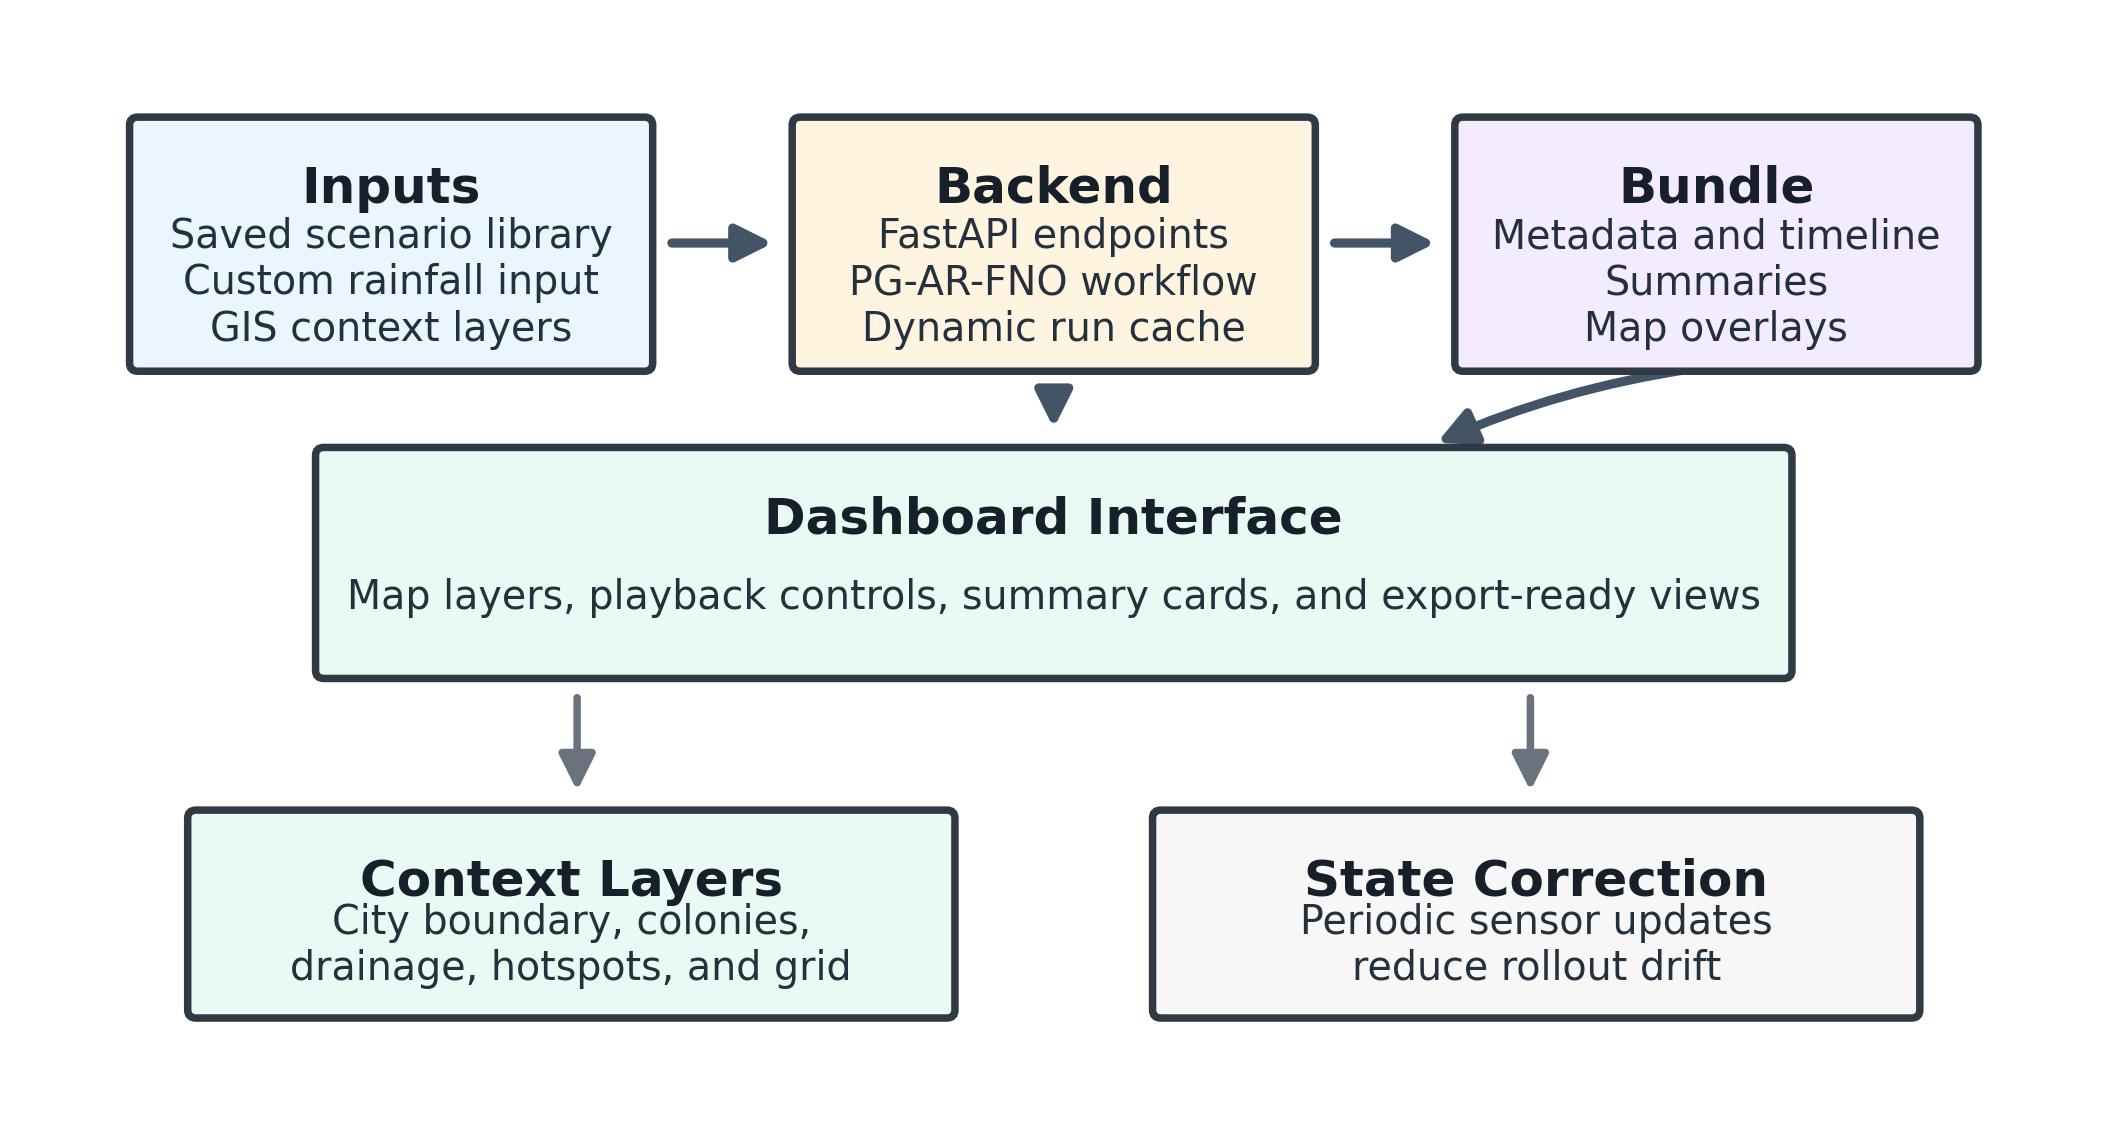
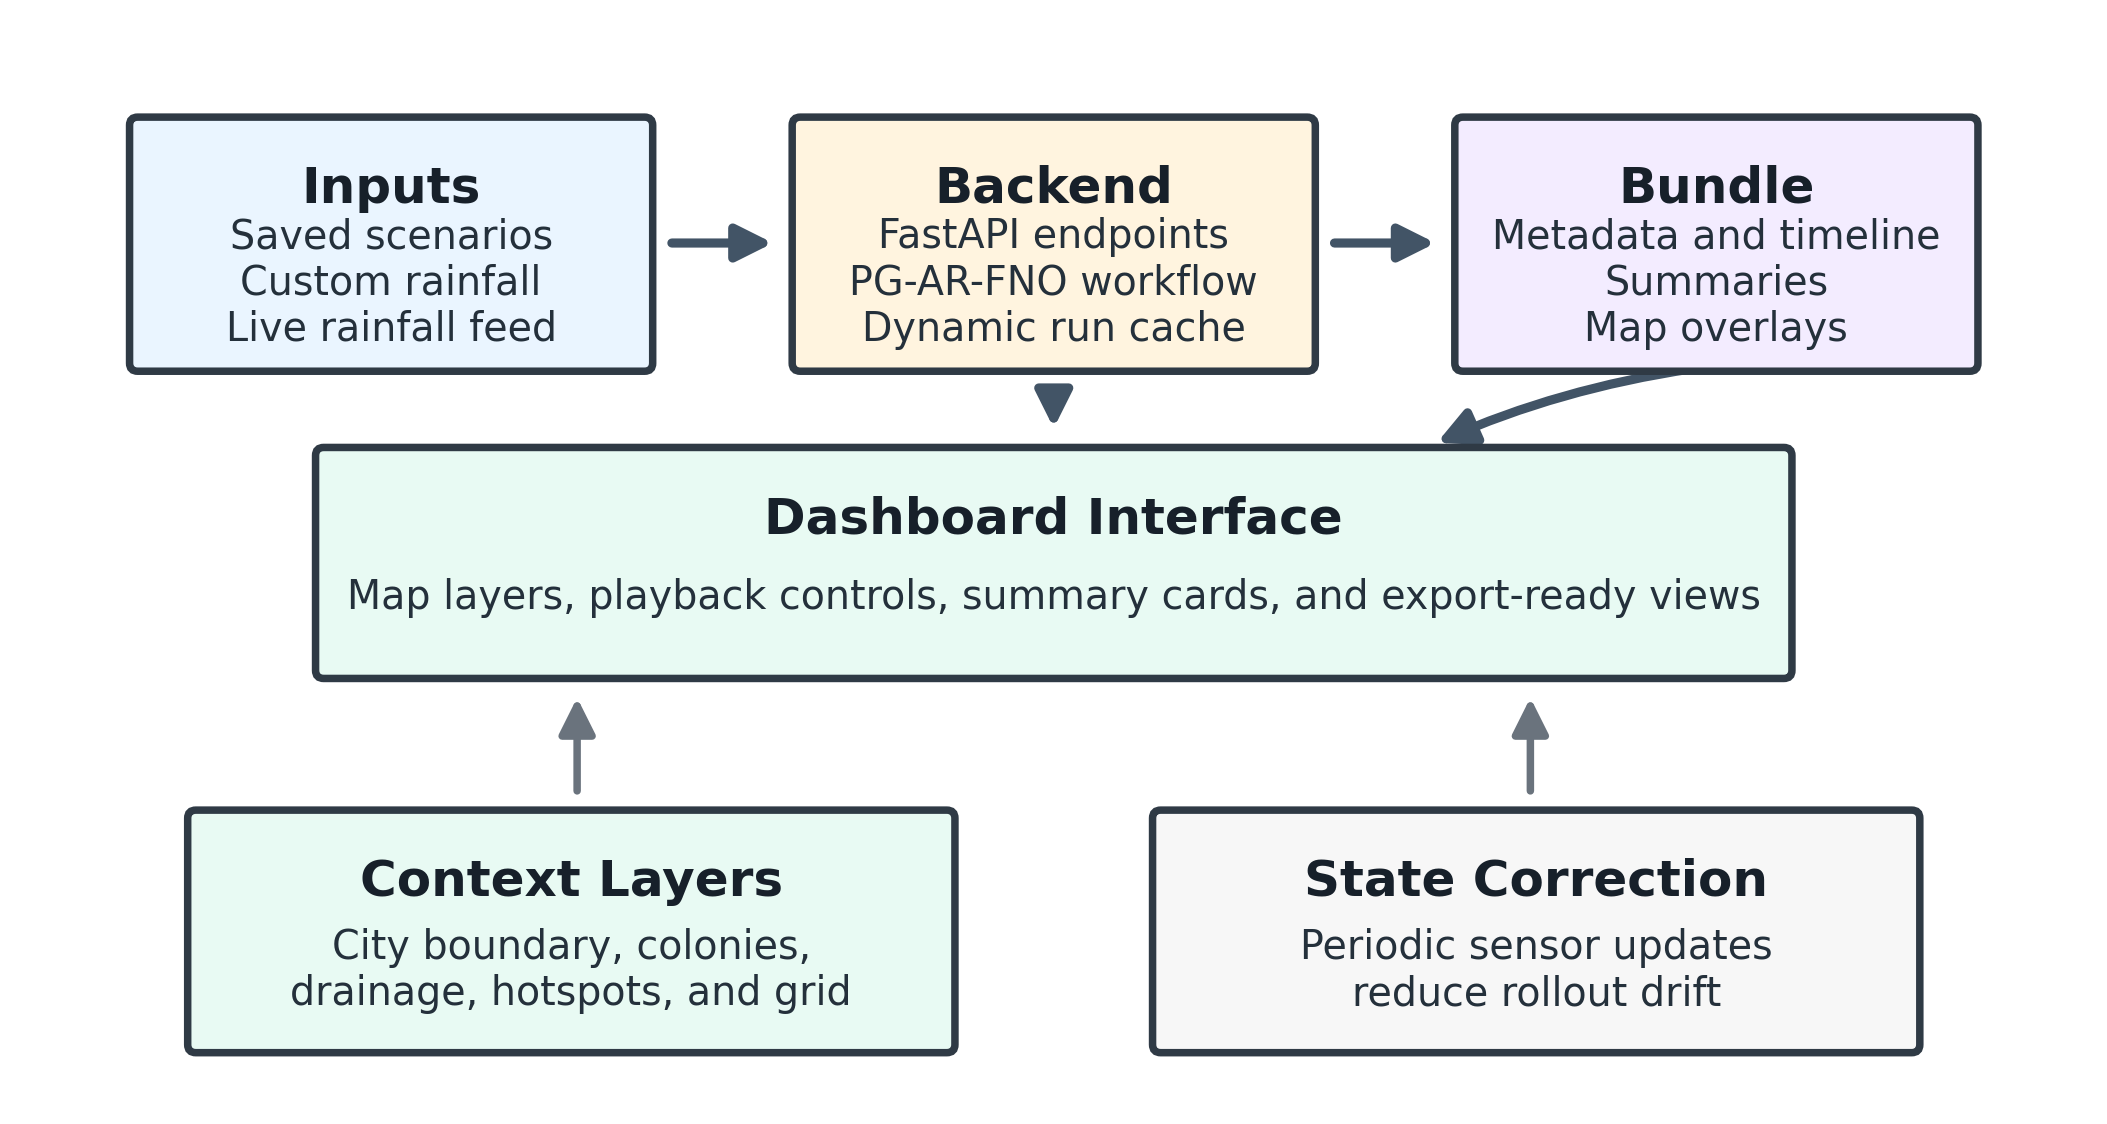
07 refresh readme

diff --git a/README.md b/README.md
@@ -1,30 +1,47 @@
 # Gurugram Flood Prediction Dashboard
 
-This repository contains the dashboard application layer used in the thesis work on PG-AR-FNO for urban flood prediction in Gurugram.
+This repository contains the application layer used to present PG-AR-FNO flood predictions for Gurugram through an interactive dashboard. It was prepared as the software artifact associated with the thesis work on urban flood prediction.
 
-The app provides three working modes:
+## Overview
 
-- `Static`: browse precomputed flood scenarios stored as dashboard assets
-- `Dynamic`: generate a run from user-supplied rainfall values
-- `Live`: fetch rainfall from a weather service and generate a run through the same pipeline
+The dashboard is built around three operating modes:
 
-## What this repository contains
+- `Static`: review saved flood scenarios through precomputed assets
+- `Dynamic`: submit a rainfall sequence and generate a run through the same display pipeline
+- `Live`: fetch rainfall from a weather service and create a live-style prediction run
 
-- FastAPI server and API routes
-- dashboard frontend with map playback, layers, summaries, and mode switching
-- static scenario assets used for demonstration
-- GIS context layers for city boundary, colonies, drainage, and hotspots
-- screenshots used for documentation and thesis integration
+The interface combines:
 
-## Important scope note
+- map-based flood visualization
+- scenario and mode selection
+- playback across time
+- switchable layers such as water depth, flood extent, hazard bands, and risk cells
+- contextual layers such as city boundary, colonies, drainage, and hotspots
+- summary indicators for the active frame
 
-This repository is the `/app` portion of the larger thesis workspace. It is meant to be published as the software artifact behind the thesis chapter and GitHub link.
+## Screens
 
-It is **not** packaged here as a fully standalone training or deployment repository. Some runtime paths in the code still expect the broader project layout for model checkpoints and processed tensors.
+### Home screen
 
-## Running the app in the thesis workspace
+![Dashboard home screen](screenshots/software_home_screen.png)
 
-Run it from the parent thesis workspace:
+### Software architecture
+
+![Software architecture workflow](screenshots/software_architecture_workflow.png)
+
+## Repository contents
+
+- `api/`: request and response schemas
+- `assets/`: static scenario assets and GIS context layers
+- `core/`: prediction, bundling, hazard, and alert logic
+- `data/`: city profile metadata
+- `services/`: weather service integration
+- `static/`: frontend HTML, CSS, and JavaScript
+- `server.py`: FastAPI entrypoint
+
+## Running the dashboard
+
+Run the app from the parent thesis workspace:
 
 ```bash
 conda activate shivam
@@ -37,11 +54,10 @@ Then open:
 http://127.0.0.1:8009
 ```
 
-## Runtime dependencies
+## Dependencies
 
-The dashboard code depends on:
+The included `requirements.txt` lists the Python packages used by the app. The main runtime dependencies are:
 
-- Python 3.10+
 - `fastapi`
 - `uvicorn`
 - `numpy`
@@ -49,41 +65,16 @@ The dashboard code depends on:
 - `pydantic`
 - `torch`
 
-An example dependency file is included as `requirements.txt`.
+## Live rainfall setup
 
-## Optional live rainfall setup
-
-For live rainfall mode, set:
+To enable live rainfall retrieval, set:
 
 ```bash
 export OPENWEATHERMAP_API_KEY=your_key_here
 ```
 
-If the key is not available, the app falls back to a labelled demonstration rainfall sequence for the live mode UI.
+If the key is unavailable or the weather request fails, the app falls back to a clearly labelled demonstration rainfall sequence so that the interface remains usable.
 
-## Repository structure
+## Scope note
 
-```text
-app/
-  api/          request and response schemas
-  assets/       static dashboard assets and GIS context layers
-  core/         predictor, bundling, hazard, and alert logic
-  data/         city profile metadata used by the dashboard
-  services/     weather service integration
-  static/       frontend HTML, CSS, and JavaScript
-  server.py     FastAPI entrypoint
-```
-
-## Screenshots
-
-Reference screenshots used in the thesis are stored in:
-
-```text
-screenshots/
-```
-
-The dashboard home screen used in the thesis chapter is available at:
-
-```text
-screenshots/software_home_screen.png
-```
+This repository is the dashboard application snapshot used for thesis presentation and review. It focuses on the software interface, saved assets, and backend service flow around the prediction workflow.
